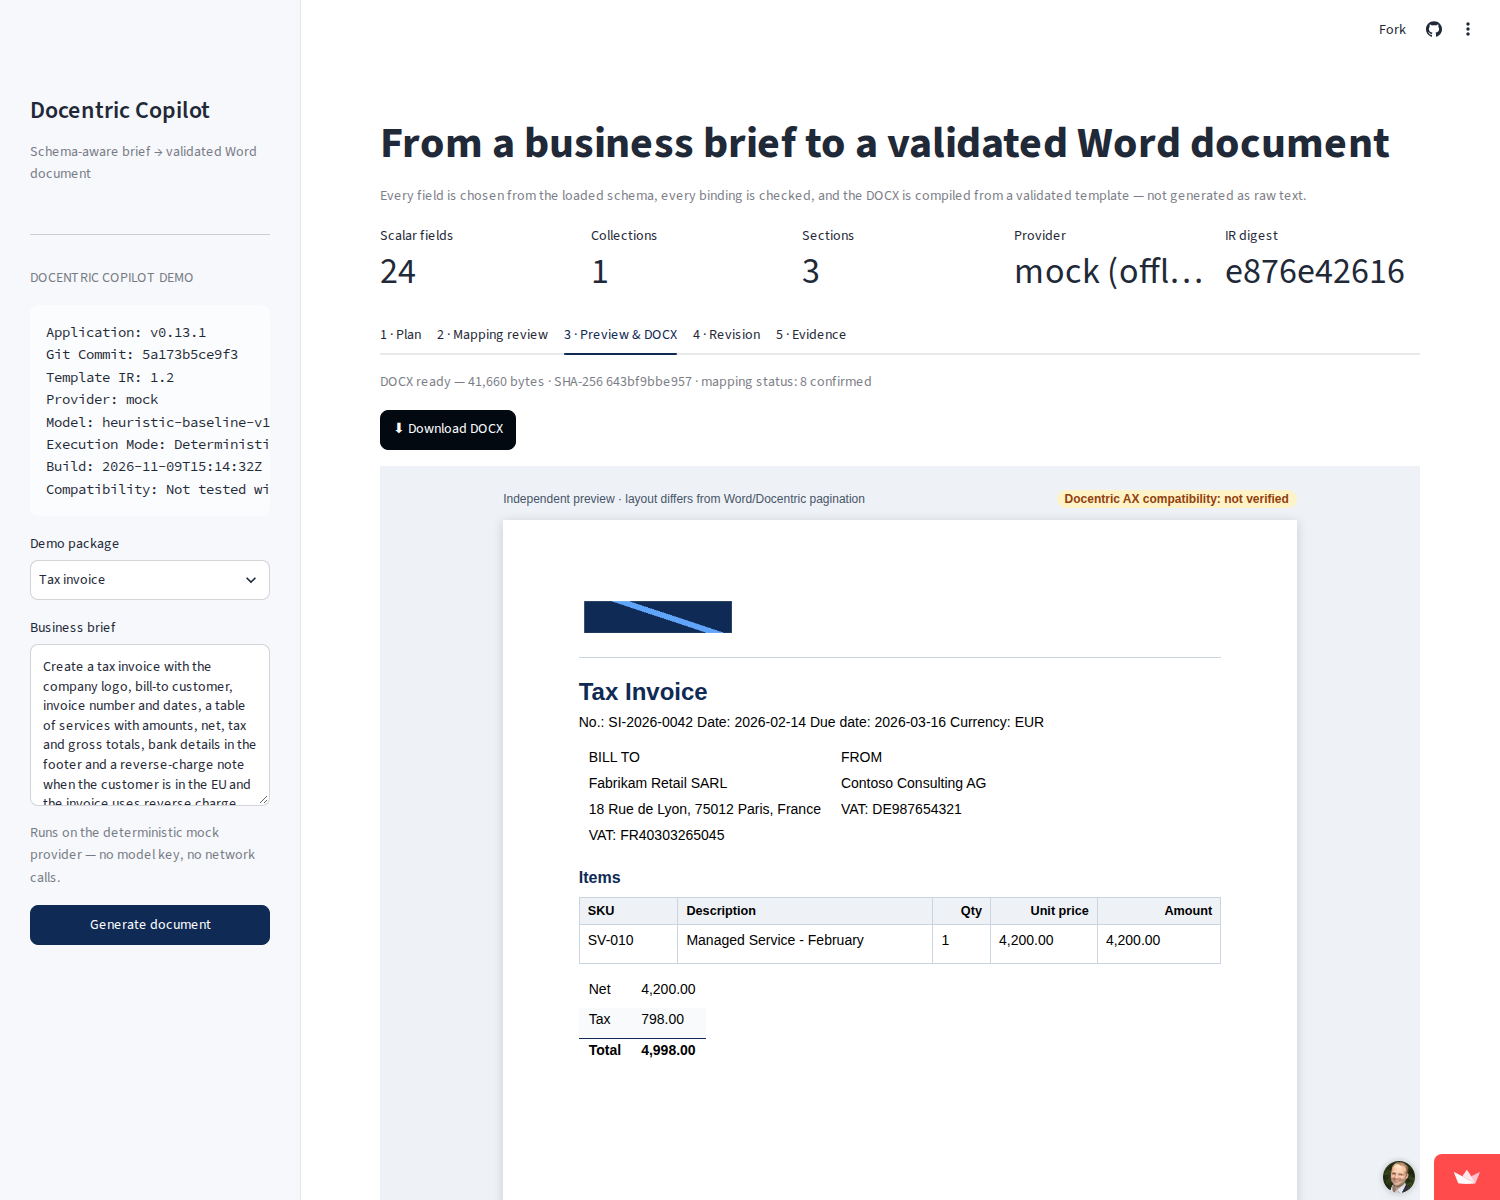
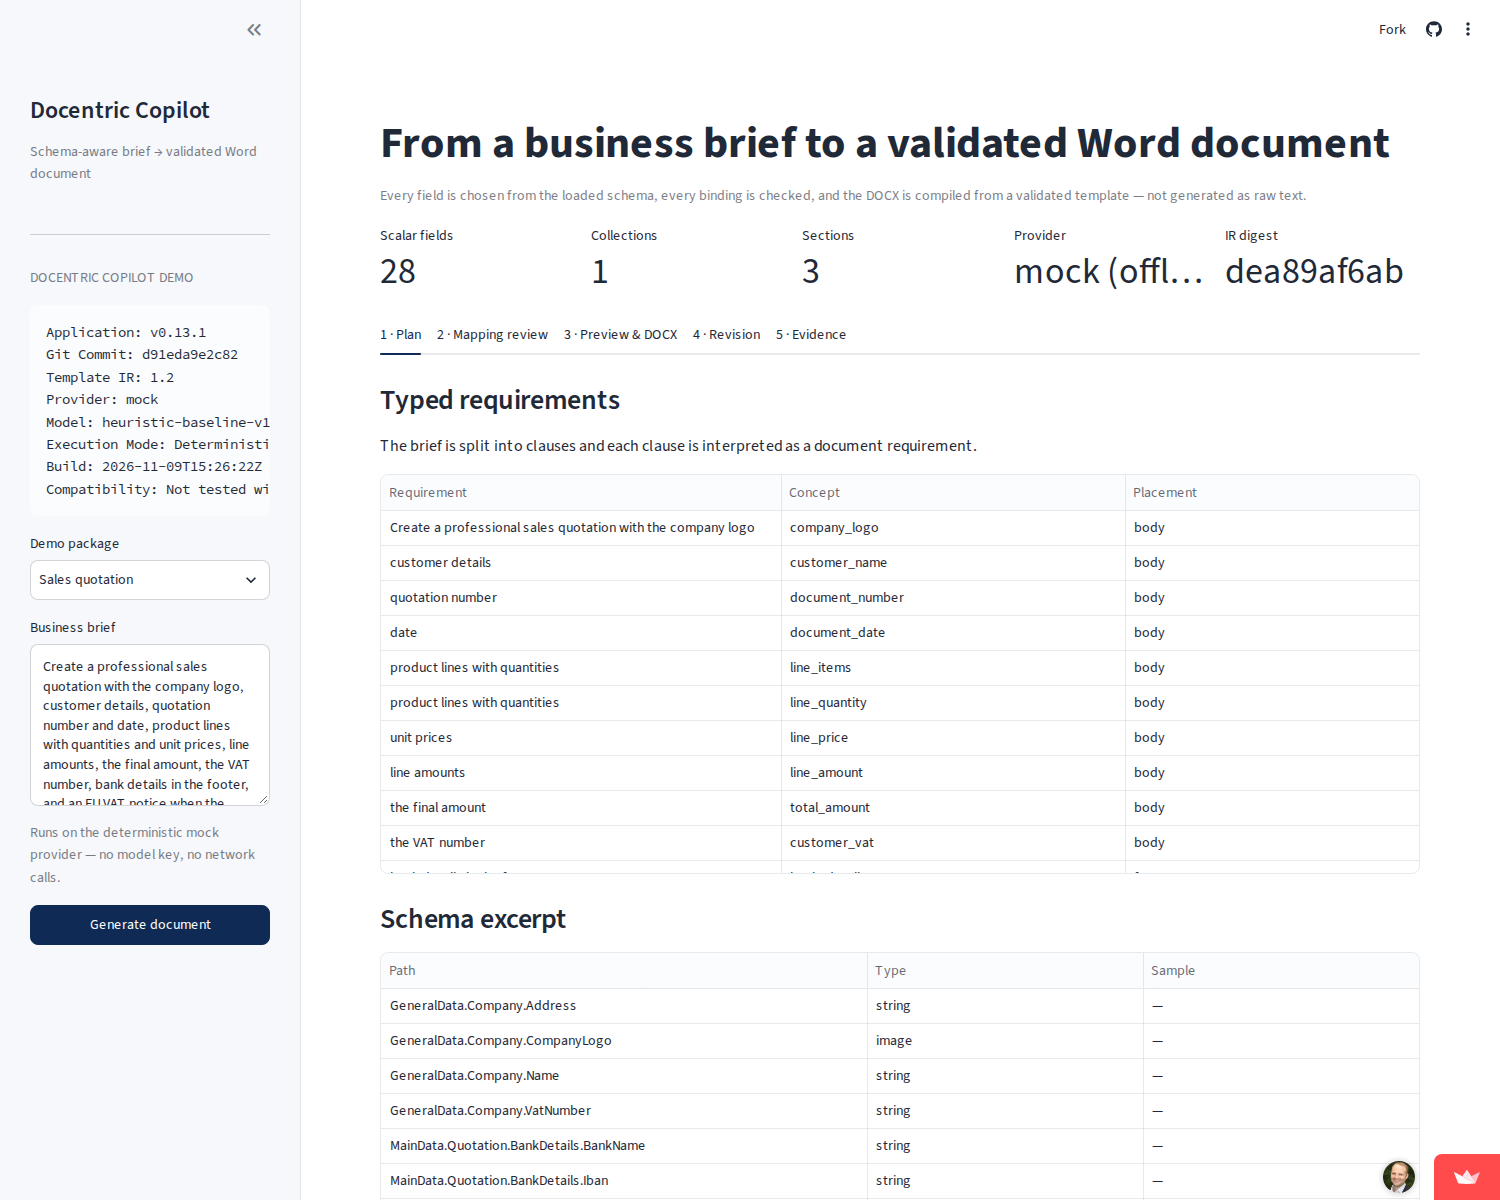
docs(v0.13): record current deployed Streamlit commit (#77)

diff --git a/docs/DEMO_SMOKE_V013.md b/docs/DEMO_SMOKE_V013.md
@@ -6,21 +6,21 @@
 
 | Field | Value |
 | --- | --- |
-| Verified at | `2026-11-09T15:12:00Z` (current deployment recheck) |
+| Verified at | `2026-11-09T15:27:00Z` (current deployment recheck) |
 | Application | `0.13.1` |
-| Git commit | `5a173b5ce9f3` |
+| Git commit | `d91eda9e2c82` |
 | Working tree dirty | `False` |
 | Template IR | `1.2` |
 | Provider / model | `mock` / `heuristic-baseline-v1` |
 | Execution mode | `Deterministic Demo` |
 | Deployed URL | https://docentric-copilot-bqpx8652tmmliwk9c2d5rq.streamlit.app |
-| Deployed status | **Verified current deployment** — commit `5a173b5ce9f3`, version 0.13.1, IR 1.2, `Deterministic Demo` |
+| Deployed status | **Verified current deployment** — commit `d91eda9e2c82`, version 0.13.1, IR 1.2, `Deterministic Demo` |
 
 ## Metadata panel
 
 ```text
 Application: v0.13.1
-Git Commit: 5a173b5ce9f3
+Git Commit: d91eda9e2c82
 Template IR: 1.2
 Provider: mock
 Model: heuristic-baseline-v1
@@ -61,7 +61,7 @@ The live app was woken again and now shows:
 
 ```text
 Application: v0.13.1
-Git Commit: 5a173b5ce9f3
+Git Commit: d91eda9e2c82
 Template IR: 1.2
 Provider: mock
 Model: heuristic-baseline-v1
@@ -94,7 +94,7 @@ Compatibility: Not tested with Docentric AX Runtime
 ```
 
 The downloaded DOCX hashes are **identical** to the local deterministic build.
-The deployed commit is now `5a173b5` (main after dependency merges), version `0.13.1`, Template IR `1.2`.
+The deployed app was rechecked at commit `d91eda9`, version `0.13.1`, Template IR `1.2`. Later docs-only commits may advance the displayed SHA without changing app behavior.
 
 Screenshots and downloaded DOCX: [`media/v013-demo/`](media/v013-demo/).
 Reproduce with:

diff --git a/docs/OPEN_TASKS_V013.md b/docs/OPEN_TASKS_V013.md
@@ -13,7 +13,7 @@ access. It is not a claim that the v0.13 Definition of Done is complete.
 | T-05 | 13 rejected tables | P1 | **Classified** | 30 observed body tables: 15 accepted / 15 deliberately unsupported / 0 defect / 0 not evaluable; reasons in `docs/REFERENCE_EVALUATION_V013.md` |
 | T-06 | 10 Gemini structured_output failures | P1 | **Classified** | `docs/GEMINI_FAILURES_V013.md`; all Gemini compact-v2, 10 vs 4 in v0.12 |
 | T-07 | Documentation/Template IR/nested-repeat sync | P1 (before video) | **Done** | IR 1.2 aligned in release evidence; feature matrix distinguishes IR/compiler support from automatic reference inference |
-| T-08 | Live Demo release consistency | P0 (before video) | **Done** | `docs/DEMO_SMOKE_V013.md`; deployed app v0.13.1, commit `5a173b5`, IR 1.2, deterministic; invoice download rerun after dependency merges, hash matches local |
+| T-08 | Live Demo release consistency | P0 (before video) | **Done** | `docs/DEMO_SMOKE_V013.md`; deployed app v0.13.1, commit `d91eda9`, IR 1.2, deterministic; invoice download rerun after dependency merges, hash matches local |
 
 ## T-04 details
 

diff --git a/docs/ROADMAP.md b/docs/ROADMAP.md
@@ -232,7 +232,7 @@ backlog items.
 
 The audit follow-up is tracked in [OPEN_TASKS_V013](OPEN_TASKS_V013.md):
 T-01/T-02/T-03 are closed; T-04/T-05/T-06 are P1 diagnostics; T-07 is complete;
-T-08 is verified on the deployed Streamlit app (v0.13.1, commit `5a173b5`, IR 1.2).
+T-08 is verified on the deployed Streamlit app (v0.13.1, commit `d91eda9`, IR 1.2).
 
 ## Next steps (ordered)
 
